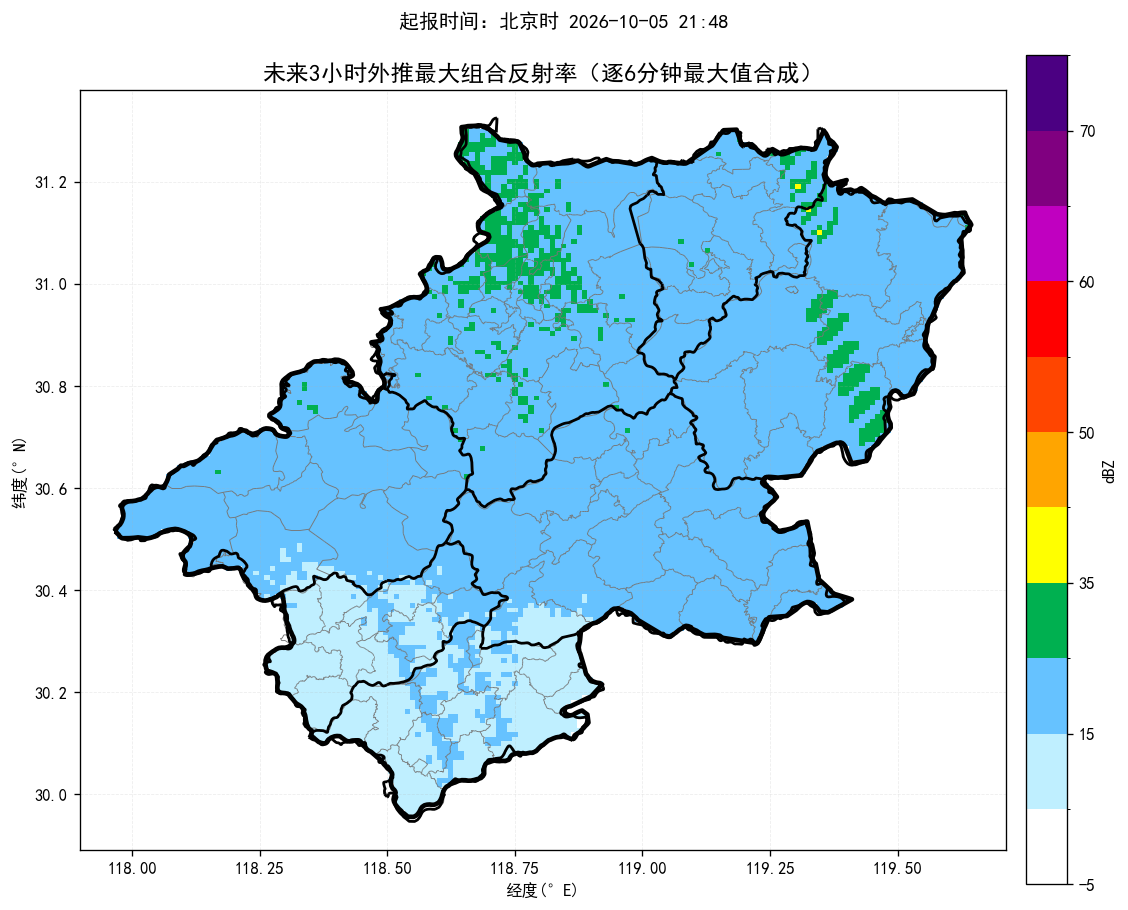
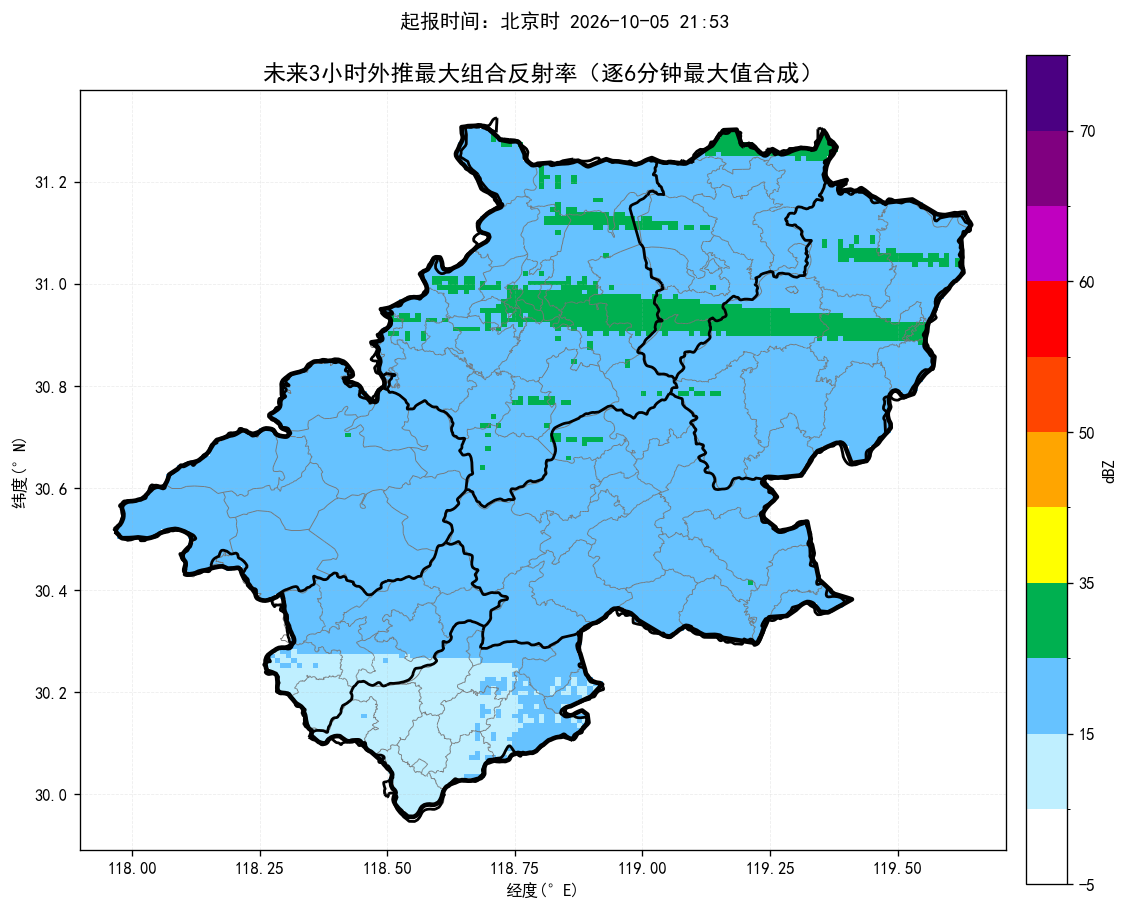
update nowcast products

diff --git a/index.html b/index.html
@@ -14,14 +14,14 @@ img.product{display:block;width:100%;height:auto;margin:10px auto 26px;border:1p
 .footer{font-size:13px;color:#777;text-align:center;margin-top:30px}
 @media(max-width:700px){.sheet{margin:0;padding:18px 15px}.alert-title{font-size:22px}.county-line{font-size:17px}.prob{font-size:18px}}
 </style></head><body><main class="sheet">
-<div class="time">起报时间：北京时 2026-10-05 21:48</div>
+<div class="time">起报时间：北京时 2026-10-05 21:53</div>
 <div class="alert-title">未来一小时降水量超过 20 毫米的乡镇：</div><div class="county-line">无</div>
 <div class="alert-title">未来三小时降水量超过 50 毫米的乡镇：</div><div class="county-line">无</div>
 <div class="alert-title">未来三小时雷暴大风（组合反射率 > 55 dBZ）的乡镇：</div><div class="county-line">无</div>
-<div class="prob">最大降水量概率预估：宣城市范围内未来三小时降水偏小，最大预报约2.5毫米，暂不进行50/80/100毫米概率预估。</div>
-<div class="section-title">未来降水预报图：</div><img class="product auto-refresh-product" data-src="短临降水预报.png" src="短临降水预报.png?v=20261005215411" alt="未来降水预报图">
-<div class="section-title">未来三小时组合反射率图：</div><img class="product auto-refresh-product" data-src="未来3小时组合反射率.png" src="未来3小时组合反射率.png?v=20261005215411" alt="未来三小时组合反射率图">
-<div class="section-title">未来三小时雷暴大风图：</div><img class="product auto-refresh-product" data-src="未来3小时雷暴大风.png" src="未来3小时雷暴大风.png?v=20261005215411" alt="未来三小时雷暴大风图">
+<div class="prob">最大降水量概率预估：宣城市范围内未来三小时降水偏小，最大预报约3.3毫米，暂不进行50/80/100毫米概率预估。</div>
+<div class="section-title">未来降水预报图：</div><img class="product auto-refresh-product" data-src="短临降水预报.png" src="短临降水预报.png?v=20261005215951" alt="未来降水预报图">
+<div class="section-title">未来三小时组合反射率图：</div><img class="product auto-refresh-product" data-src="未来3小时组合反射率.png" src="未来3小时组合反射率.png?v=20261005215951" alt="未来三小时组合反射率图">
+<div class="section-title">未来三小时雷暴大风图：</div><img class="product auto-refresh-product" data-src="未来3小时雷暴大风.png" src="未来3小时雷暴大风.png?v=20261005215951" alt="未来三小时雷暴大风图">
 <div class="footer">三张产品图每 60 秒自动刷新一次；每次请求自动附加新的URL参数以绕过缓存。</div>
 <script>
 (function() {
